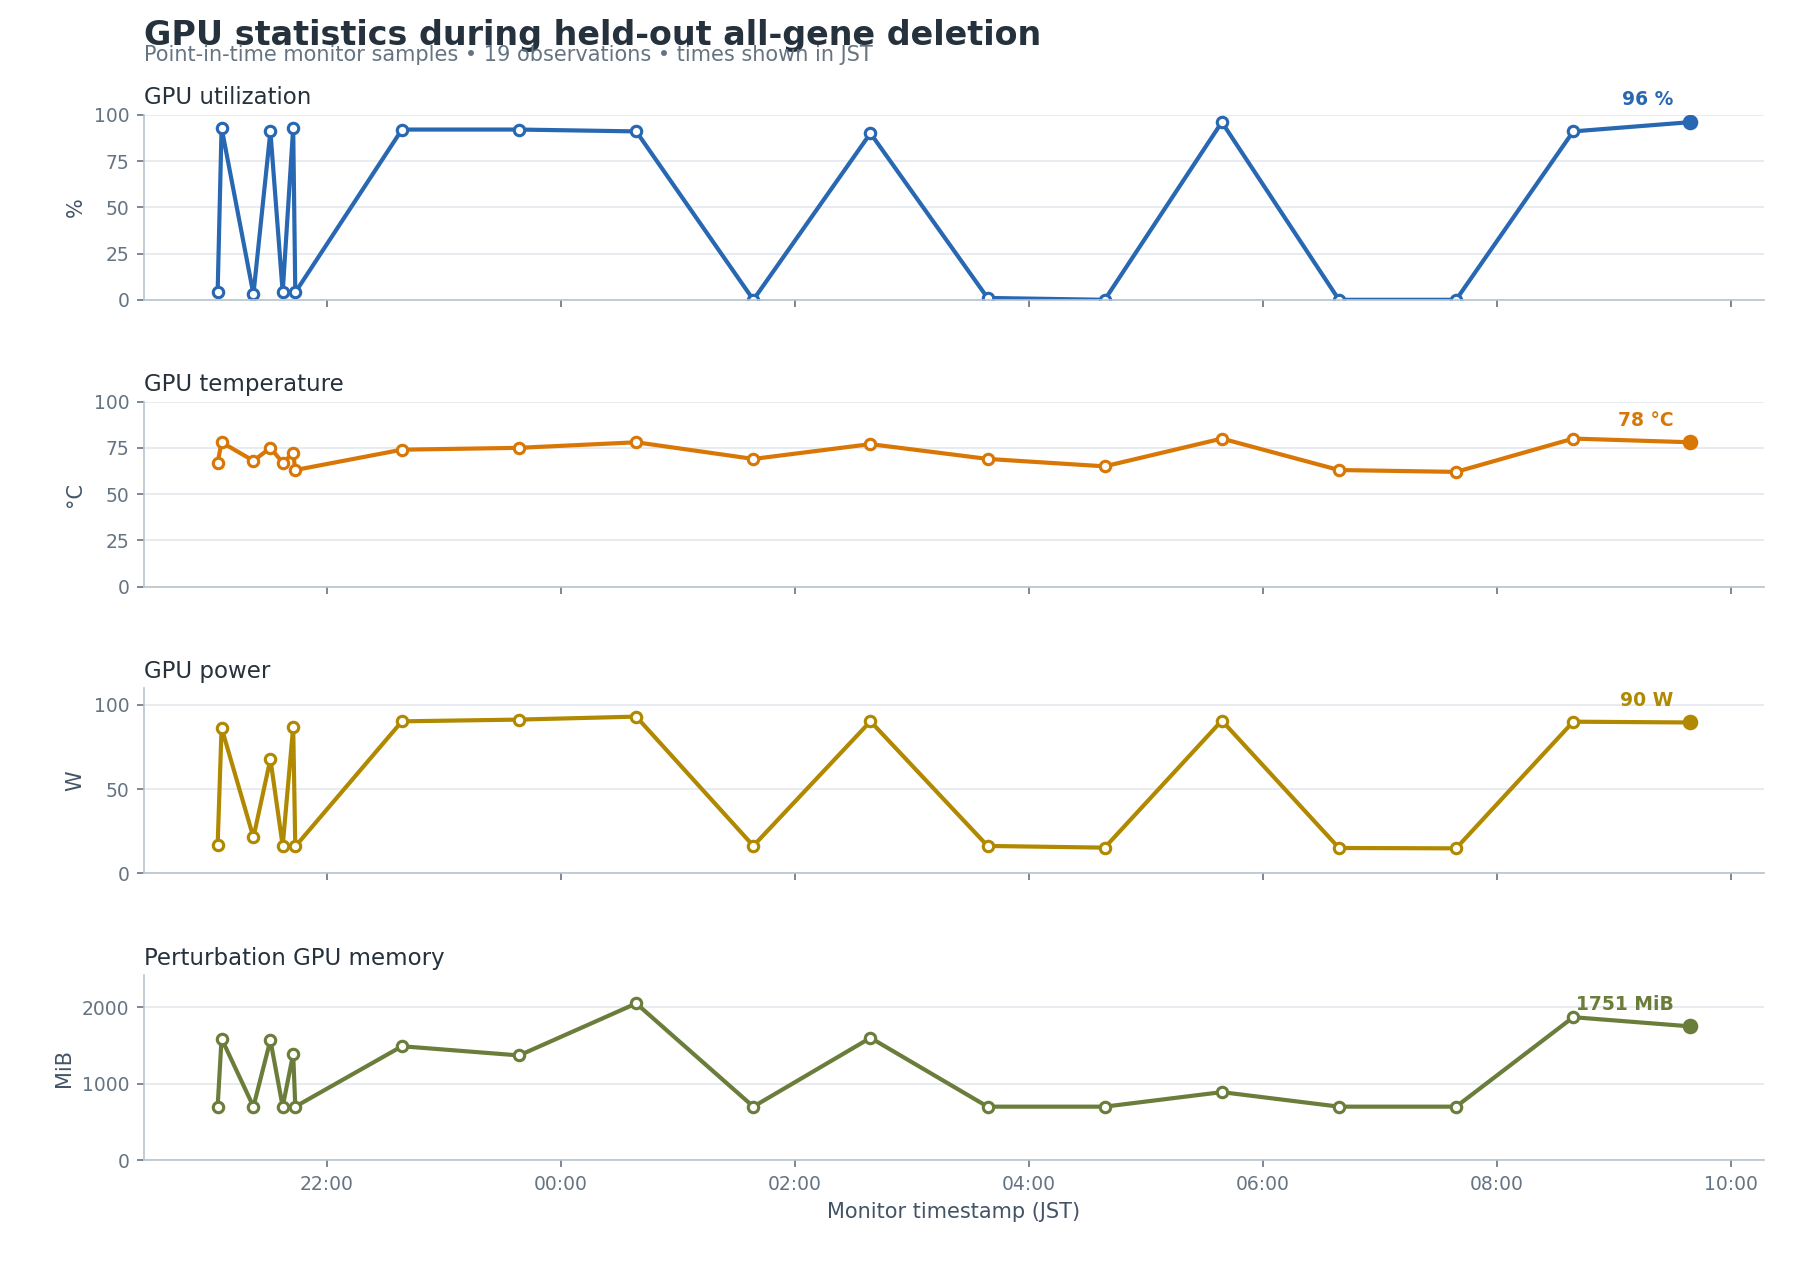
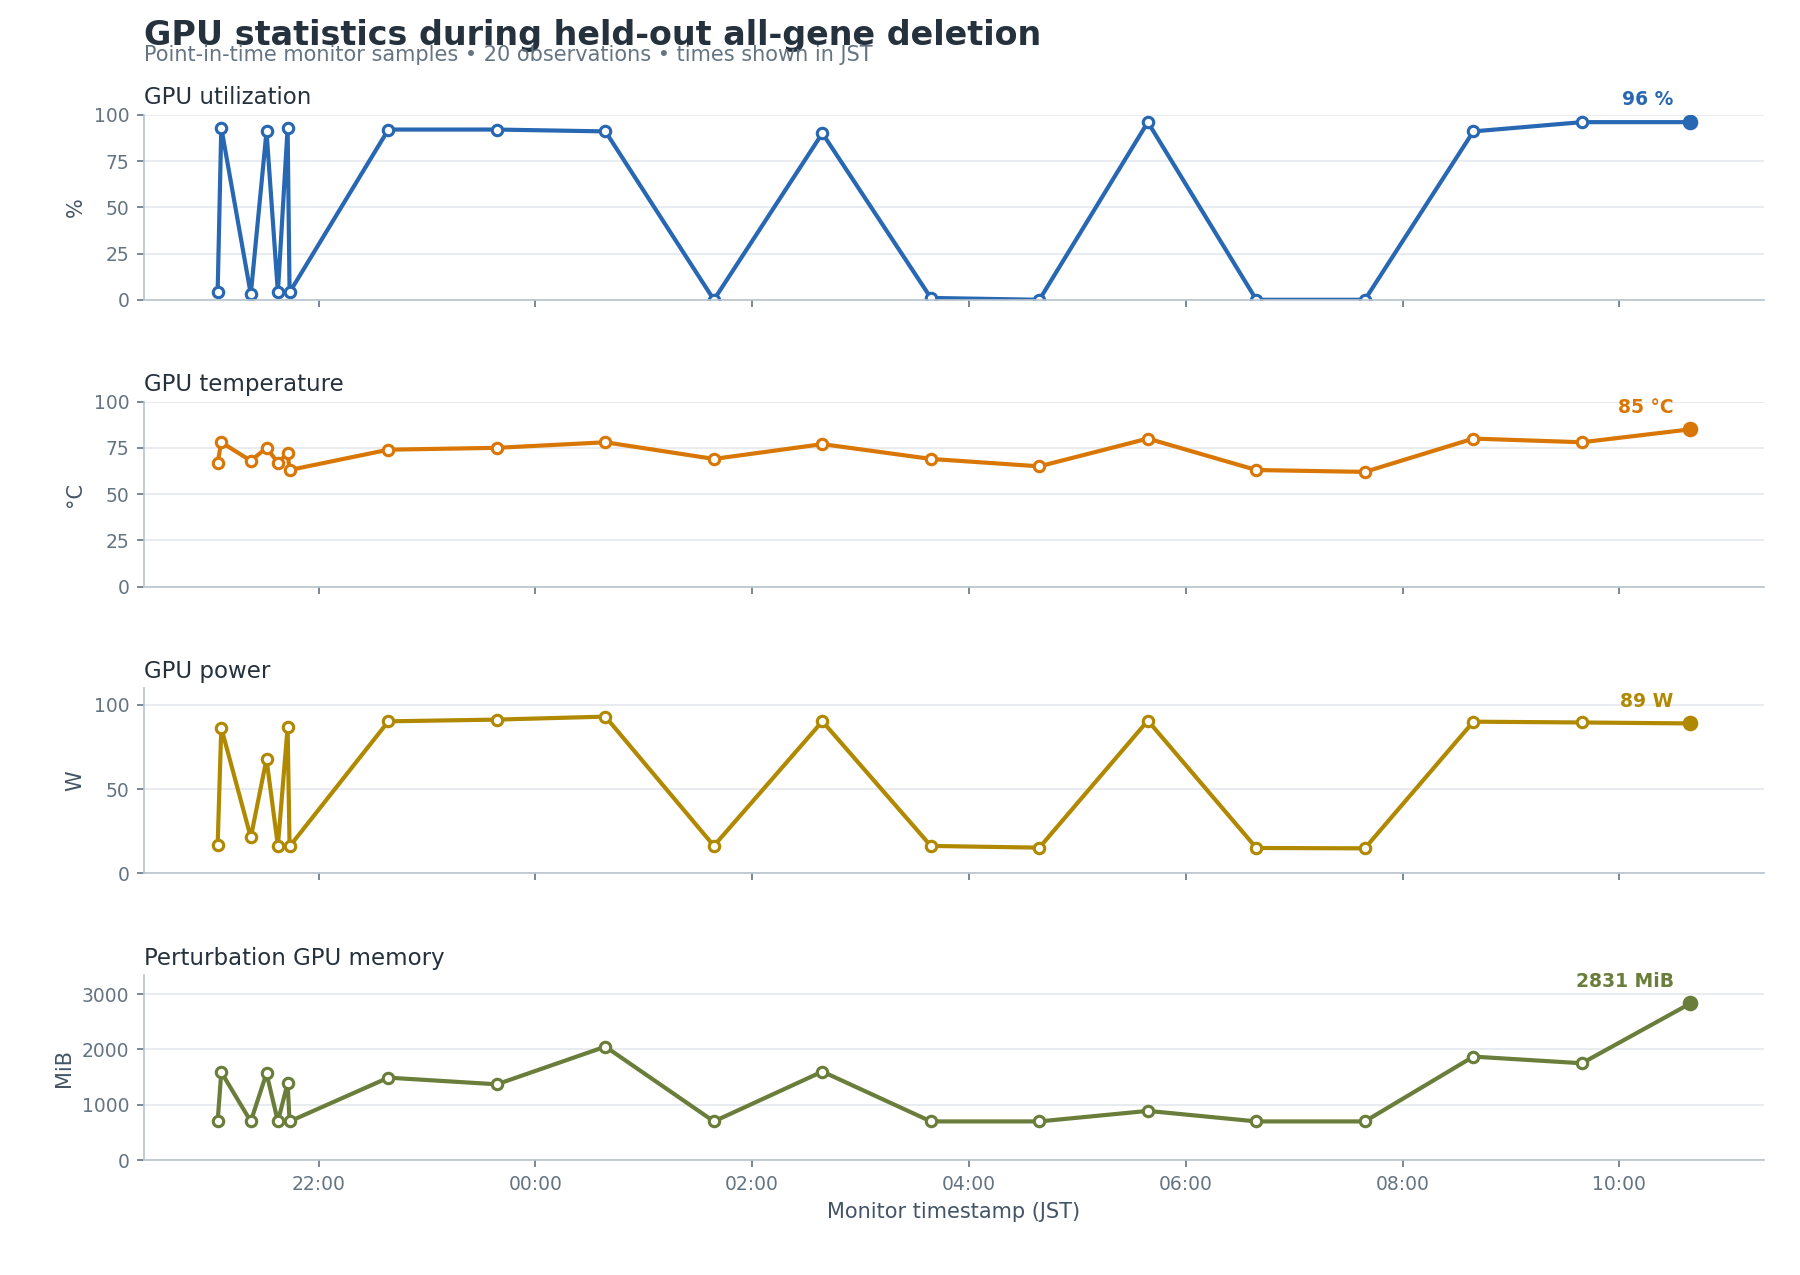
monitor: update perturbation status 2026-07-18 10:39 JST

diff --git a/current_workflow/monitoring/GPU_PROGRESS_REPORT.md b/current_workflow/monitoring/GPU_PROGRESS_REPORT.md
@@ -14,6 +14,39 @@ Newest snapshots appear first. Existing entries are retained below; the machine-
 
 ---
 
+## Snapshot — 2026-07-18T10:39:17+09:00
+
+Run status: **RUNNING**
+
+Overall cell progress: **1,974 / 3,379 (58.42%)**
+
+### GPU and memory
+
+| Metric | Current value |
+|---|---:|
+| GPU | NVIDIA GB10 |
+| GPU utilization | 96% |
+| GPU temperature | 85 C |
+| GPU power | 89.0 W |
+| Perturbation GPU memory | 2831 MiB |
+| System memory used | 39.1 GiB |
+| System memory available | 80.6 GiB |
+| Swap used | 0.0 GiB |
+
+### Perturbation progress
+
+| Source | Cells written | Shards complete | Raw files |
+|---|---:|---:|---:|
+| LUSC | 560 / 560 (100.00%) | 23 / 23 | 1,120 |
+| LUAD | 1,411 / 1,411 (100.00%) | 57 / 57 | 2,822 |
+| NORMAL | 3 / 1,408 (0.21%) | 0 / 57 | 7 |
+
+Statistics are generated after all shards for a source state complete. Cell
+counts include only cells with both raw checkpoint batches present.
+
+
+---
+
 ## Snapshot — 2026-07-18T09:39:14+09:00
 
 Run status: **RUNNING**
